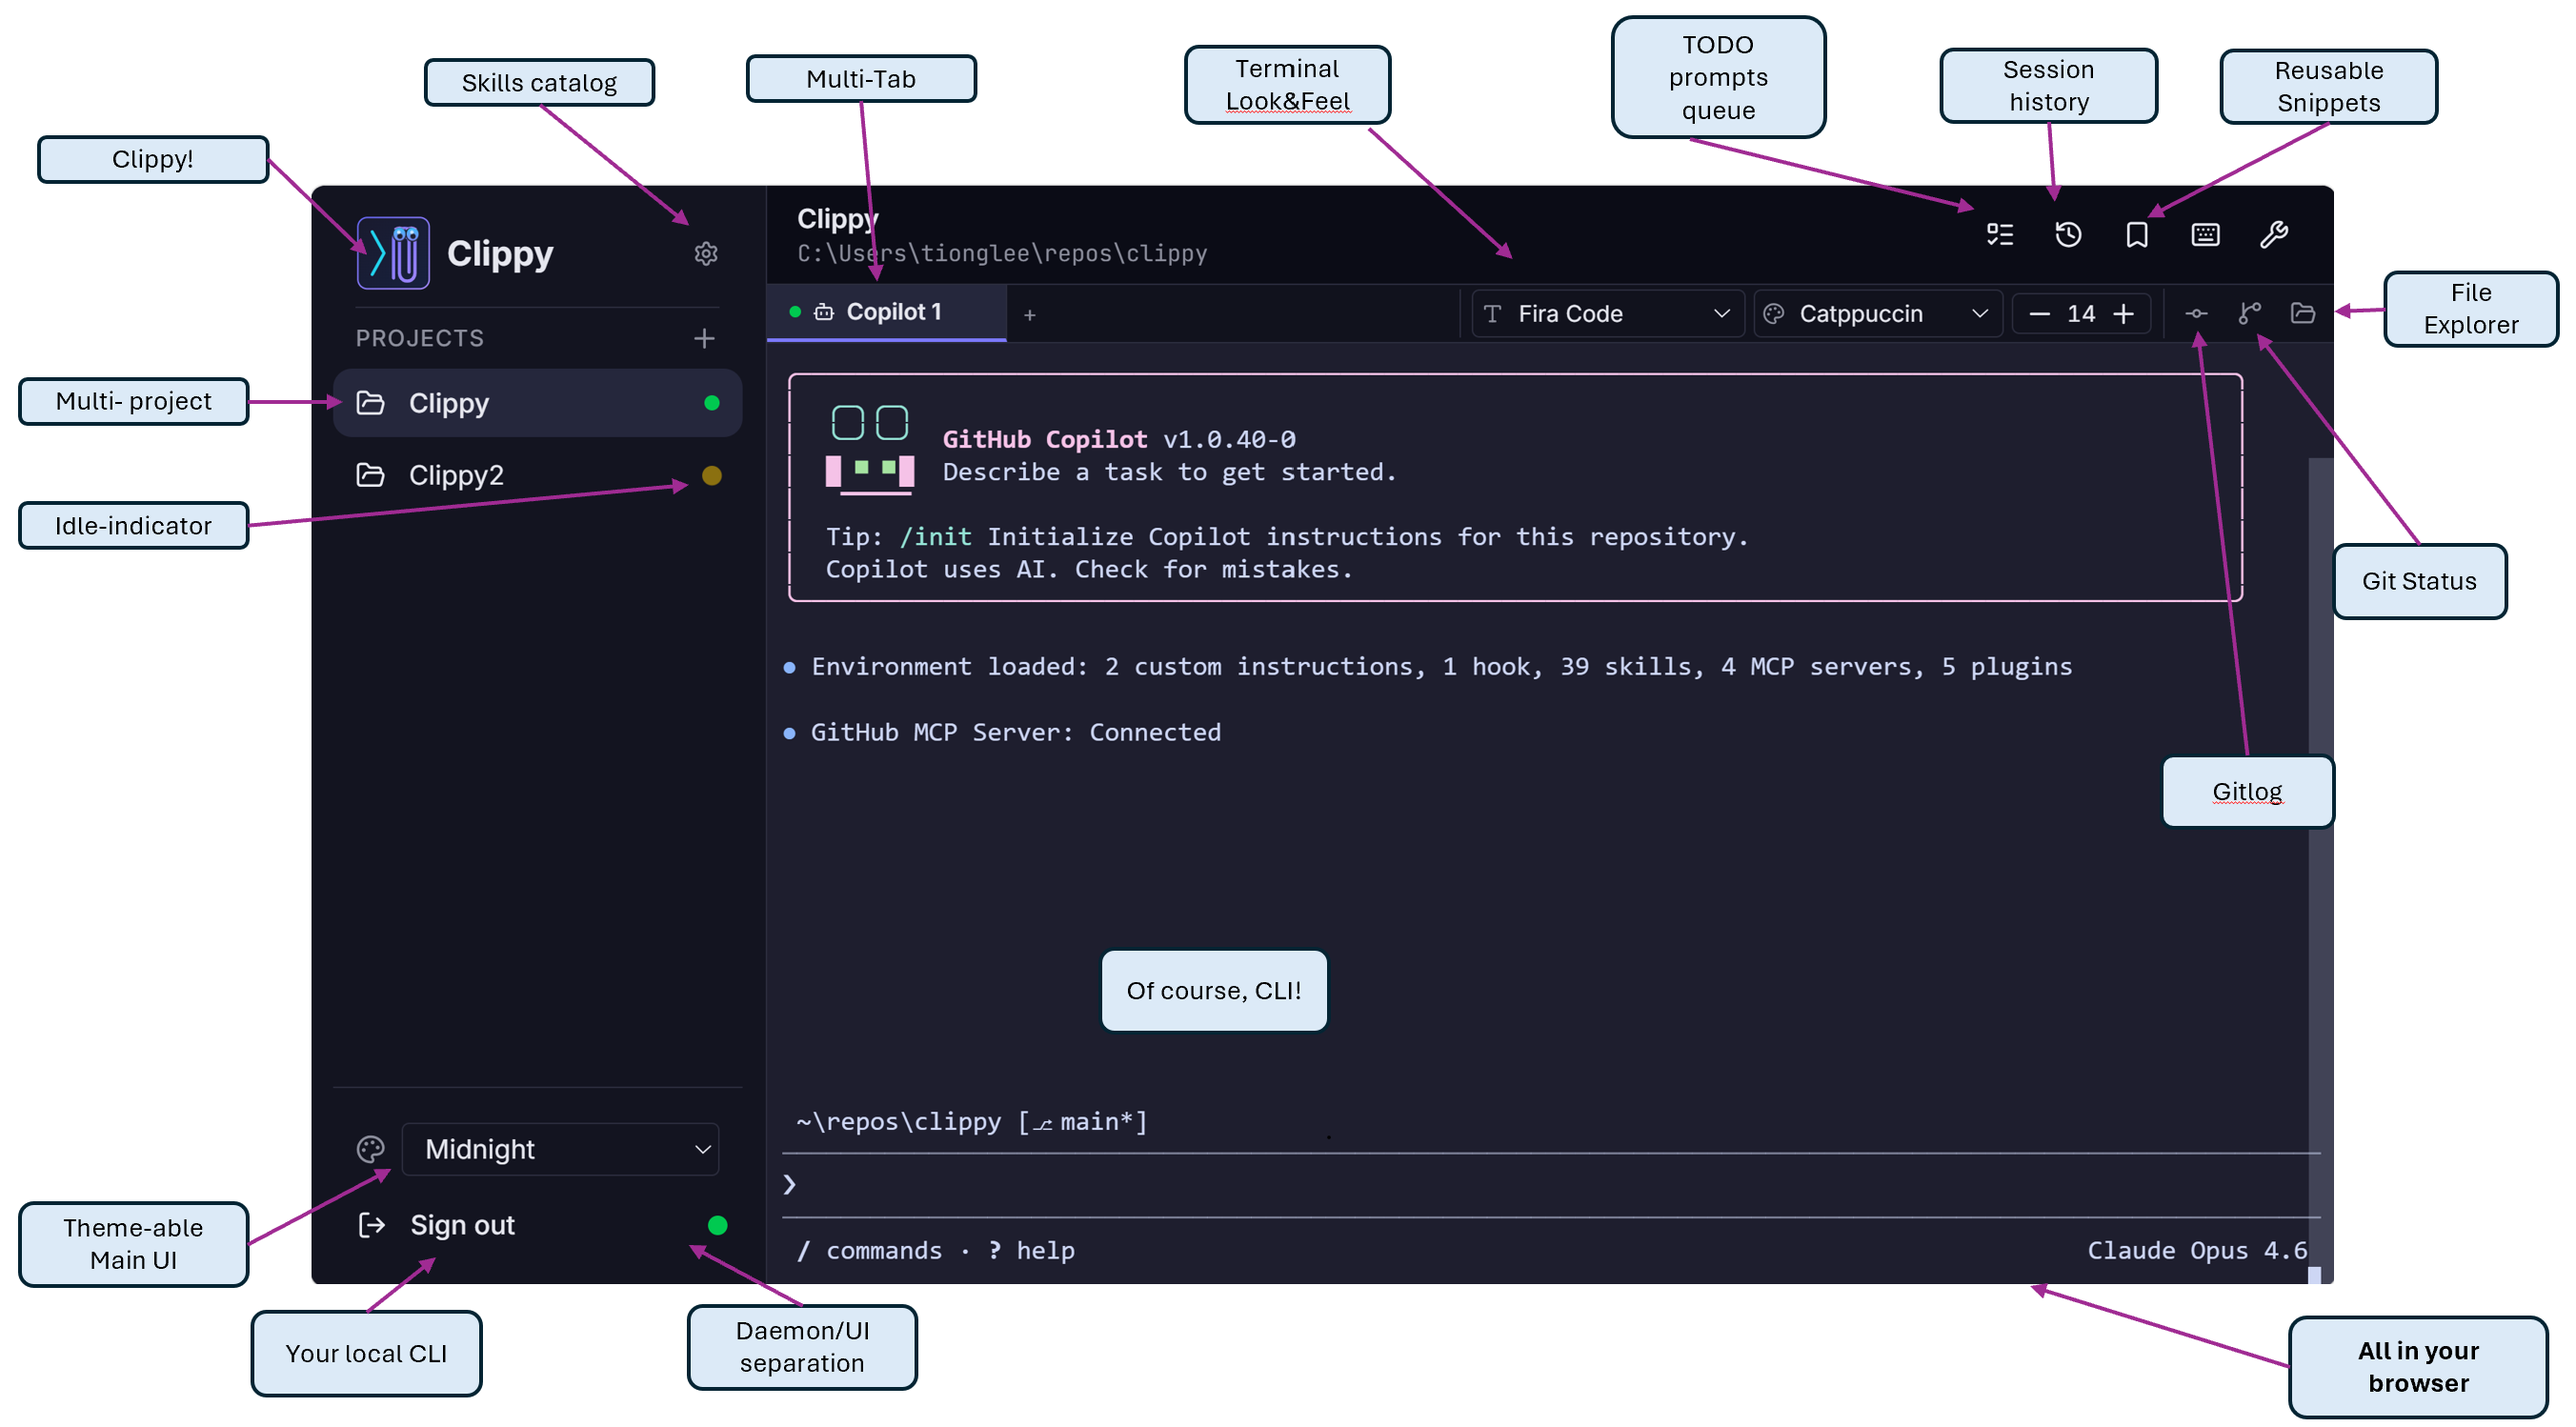
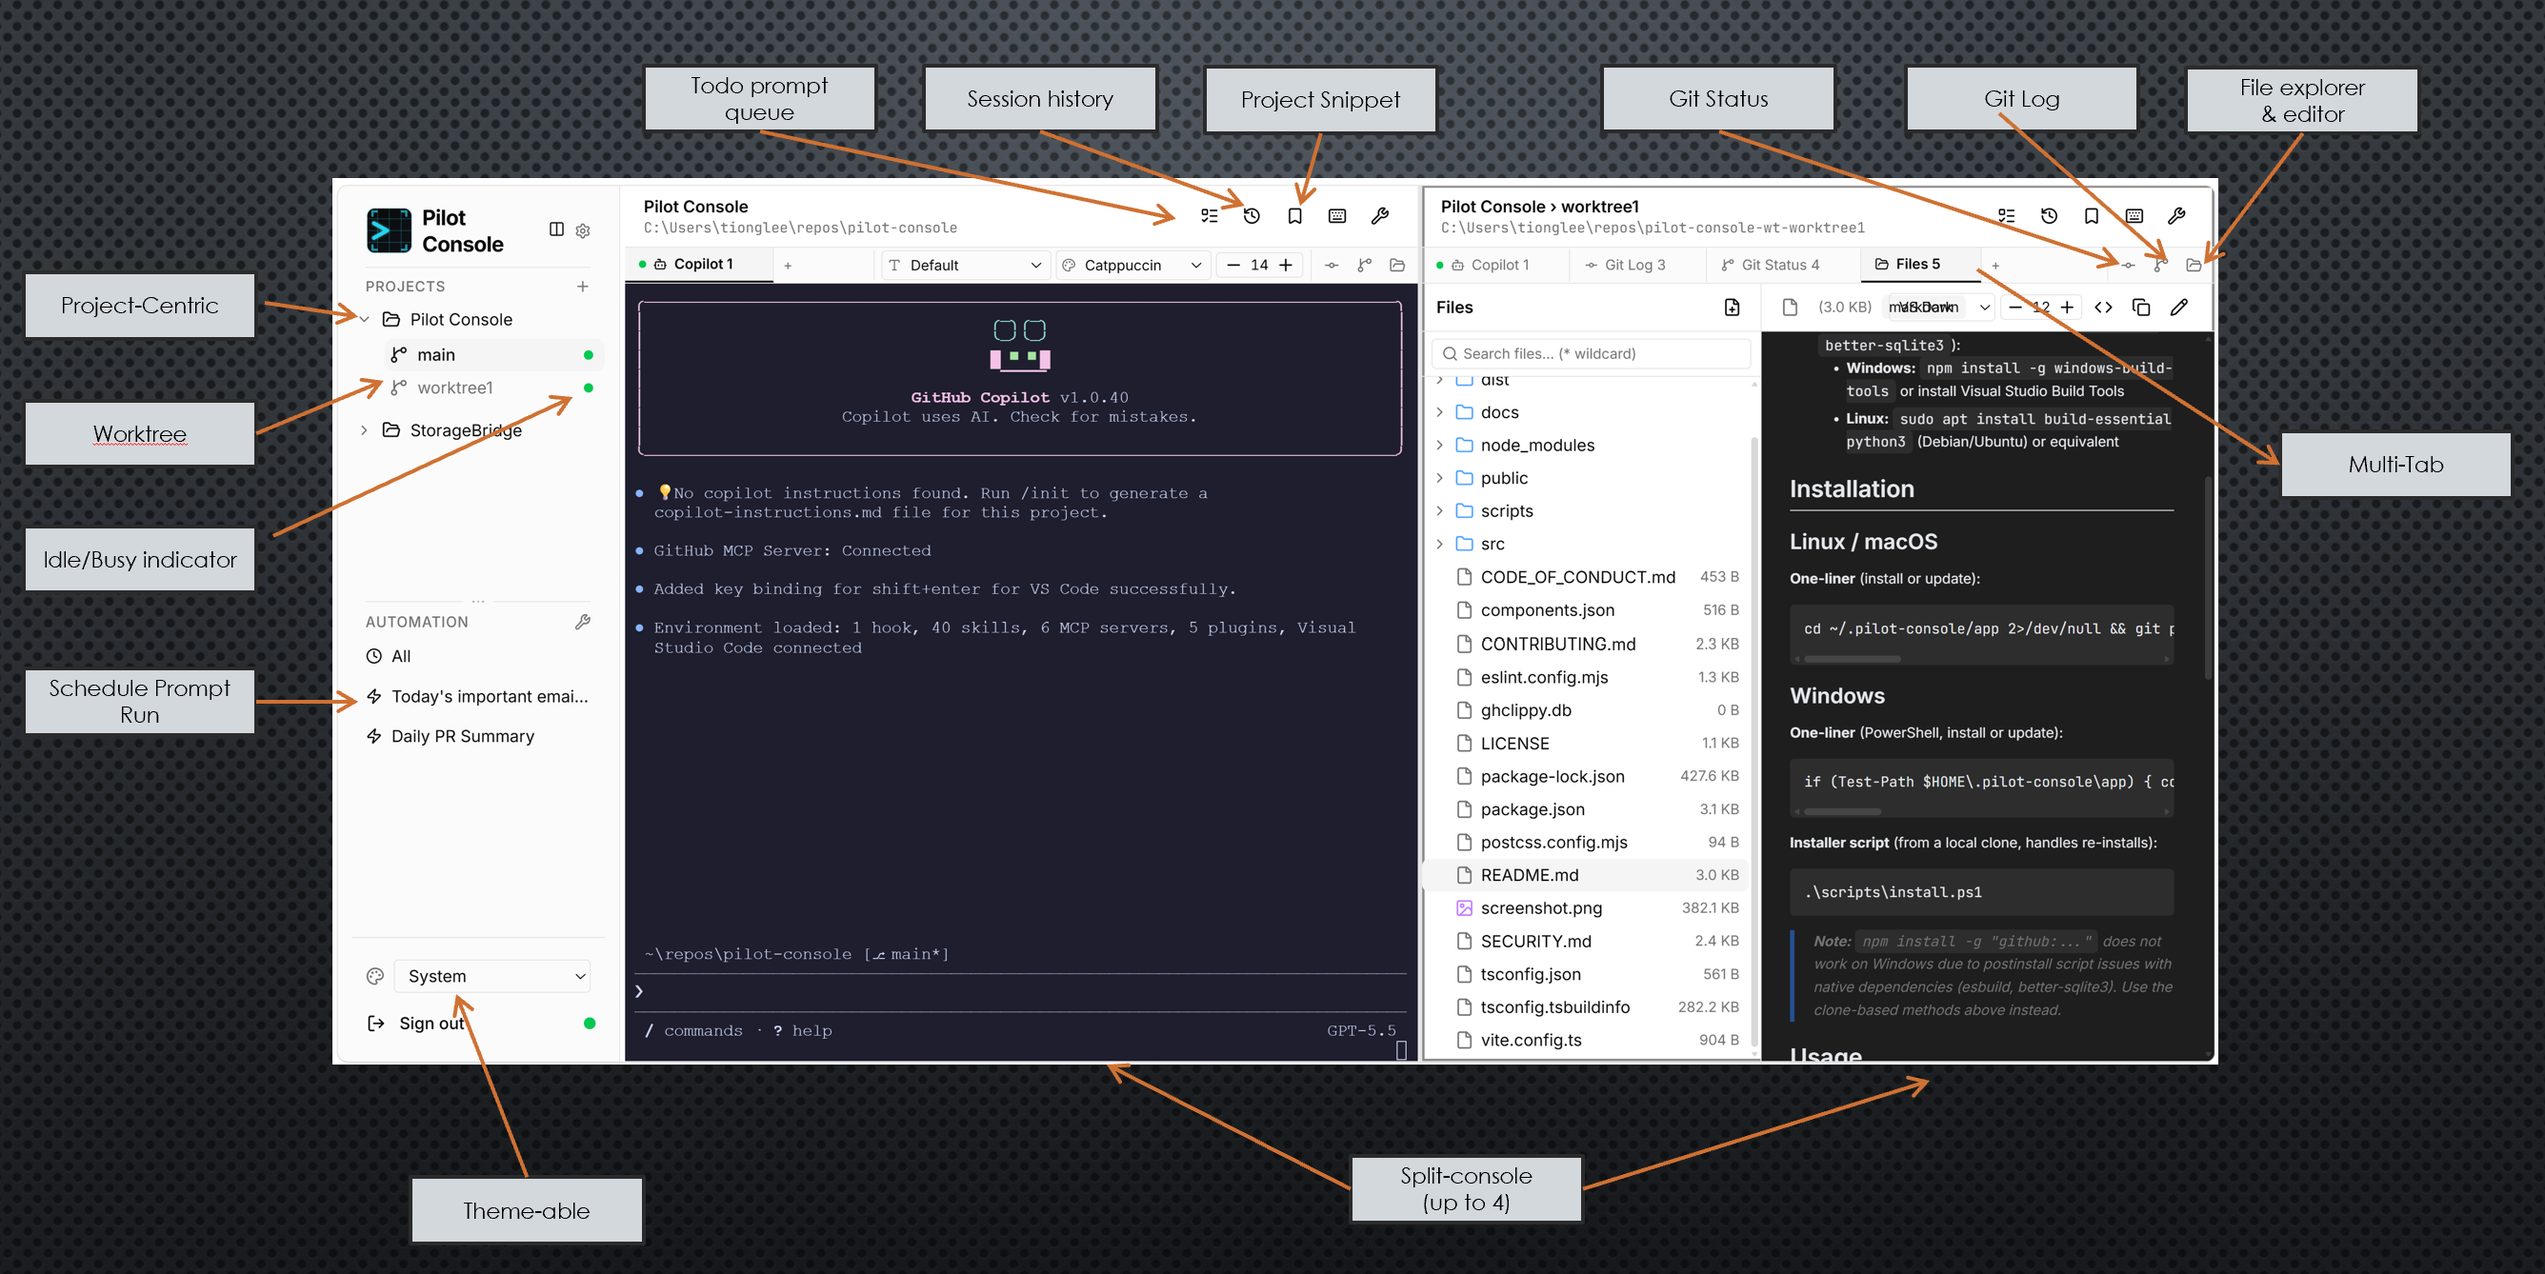
Update automation notifications

diff --git a/src/client/pages/SchedulesPage.tsx b/src/client/pages/SchedulesPage.tsx
@@ -8,6 +8,7 @@ import { Dialog, DialogContent, DialogHeader, DialogTitle } from '../components/
 import { Badge } from '../components/ui/badge';
 import { Plus, Play, Pencil, Trash2, Clock, Pause, History, ArrowLeft, Download, Upload, BookTemplate, Save, X } from 'lucide-react';
 import ScheduleInput from '../components/schedule/ScheduleInput';
+import { useAutomation } from '../lib/automation-context';
 
 interface Schedule {
   id: string;
@@ -70,6 +71,7 @@ export default function SchedulesPage() {
   const [importResult, setImportResult] = useState<{ name: string; status: string; error?: string }[] | null>(null);
   const [showImportResult, setShowImportResult] = useState(false);
   const fileInputRef = useRef<HTMLInputElement>(null);
+  const { refreshSchedules: refreshNavSchedules } = useAutomation();
 
   const fetchSchedules = useCallback(async () => {
     try {
@@ -213,7 +215,7 @@ export default function SchedulesPage() {
       const data = await res.json();
       if (!res.ok) throw new Error(data.error);
       setShowDialog(false);
-      fetchSchedules();
+      await Promise.all([fetchSchedules(), refreshNavSchedules()]);
     } catch (err) {
       setError((err as Error).message);
     } finally {
@@ -224,8 +226,9 @@ export default function SchedulesPage() {
   const handleDelete = async (id: string) => {
     if (!confirm('Delete this schedule and all its runs?')) return;
     try {
-      await fetch(`/api/admin/schedules/${id}`, { method: 'DELETE' });
-      fetchSchedules();
+      const res = await fetch(`/api/admin/schedules/${id}`, { method: 'DELETE' });
+      if (!res.ok) return;
+      await Promise.all([fetchSchedules(), refreshNavSchedules()]);
     } catch {}
   };
 
@@ -236,7 +239,7 @@ export default function SchedulesPage() {
         headers: { 'Content-Type': 'application/json' },
         body: JSON.stringify({ enabled: !s.enabled }),
       });
-      fetchSchedules();
+      await Promise.all([fetchSchedules(), refreshNavSchedules()]);
     } catch {}
   };
 
@@ -244,7 +247,7 @@ export default function SchedulesPage() {
     setTriggeringId(id);
     try {
       await fetch(`/api/admin/schedules/${id}/run`, { method: 'POST' });
-      fetchSchedules();
+      await fetchSchedules();
     } catch {}
     setTriggeringId(null);
   };
@@ -298,7 +301,7 @@ export default function SchedulesPage() {
       const result = await res.json();
       setImportResult(result.results || [{ name: '(unknown)', status: 'error', error: result.error }]);
       setShowImportResult(true);
-      fetchSchedules();
+      await Promise.all([fetchSchedules(), refreshNavSchedules()]);
     } catch (err) {
       setImportResult([{ name: '(file)', status: 'error', error: 'Failed to parse JSON file' }]);
       setShowImportResult(true);

diff --git a/src/server/routes/schedules.ts b/src/server/routes/schedules.ts
@@ -22,6 +22,7 @@ import { getAllTemplates, createTemplate, deleteTemplate } from '../../shared/au
 import { getRendererTypes } from '../renderers';
 import { getNextRunTime } from '../scheduler';
 import { executeReport, getRunningReportOutput, killRunningReport, getRunningReportForSchedule, getReportFilePath } from '../report-runner';
+import { broadcastScheduleChanged } from '../websocket';
 
 const router = Router();
 const REPORTS_DIR = path.join(require('os').homedir(), '.pilot-console', 'reports');
@@ -101,6 +102,7 @@ router.post('/schedules', (req, res) => {
       nextRunAt: nextRun,
     });
 
+    broadcastScheduleChanged({ action: 'created', scheduleId: schedule.id });
     res.status(201).json(schedule);
   } catch (err: any) {
     res.status(400).json({ error: err.message });
@@ -133,6 +135,7 @@ router.post('/schedules/import', (req, res) => {
     }
 
     const results: { name: string; status: 'created' | 'skipped' | 'error'; error?: string }[] = [];
+    let createdCount = 0;
 
     for (const s of imported) {
       if (!s.name?.trim() || !s.prompt?.trim() || !s.cronExpression?.trim()) {
@@ -159,12 +162,16 @@ router.post('/schedules/import', (req, res) => {
           nextRunAt: nextRun,
           enabled: s.enabled !== false,
         });
+        createdCount++;
         results.push({ name: s.name, status: 'created' });
       } catch (err: any) {
         results.push({ name: s.name, status: 'error', error: err.message });
       }
     }
 
+    if (createdCount > 0) {
+      broadcastScheduleChanged({ action: 'imported' });
+    }
     res.json({ results });
   } catch (err: any) {
     res.status(400).json({ error: err.message });
@@ -211,6 +218,7 @@ router.put('/schedules/:id', (req, res) => {
     }
 
     const schedule = updateSchedule(req.params.id, data);
+    broadcastScheduleChanged({ action: 'updated', scheduleId: schedule.id });
     res.json(schedule);
   } catch (err: any) {
     res.status(400).json({ error: err.message });
@@ -219,6 +227,7 @@ router.put('/schedules/:id', (req, res) => {
 
 router.delete('/schedules/:id', (req, res) => {
   deleteSchedule(req.params.id);
+  broadcastScheduleChanged({ action: 'deleted', scheduleId: req.params.id });
   res.json({ ok: true });
 });
 

diff --git a/src/client/lib/automation-context.tsx b/src/client/lib/automation-context.tsx
@@ -1,24 +1,57 @@
-import { createContext, useContext } from 'react';
+import { createContext, useCallback, useContext, useEffect, useState } from 'react';
 import { useAutomationBadge } from '../hooks/useAutomationBadge';
+
+interface AutomationNavSchedule {
+  id: string;
+  name: string;
+}
 
 interface AutomationContextValue {
   badgeCount: number;
+  schedules: AutomationNavSchedule[];
   refreshBadge: () => Promise<void>;
+  refreshSchedules: () => Promise<void>;
   markSeen: (latestCompletedAt?: string) => void;
   incrementBadge: () => void;
 }
 
 const AutomationContext = createContext<AutomationContextValue>({
   badgeCount: 0,
+  schedules: [],
   refreshBadge: async () => {},
+  refreshSchedules: async () => {},
   markSeen: () => {},
   incrementBadge: () => {},
 });
 
 export function AutomationProvider({ children }: { children: React.ReactNode }) {
   const { count, refresh, markSeen, increment } = useAutomationBadge();
+  const [schedules, setSchedules] = useState<AutomationNavSchedule[]>([]);
+
+  const refreshSchedules = useCallback(async () => {
+    try {
+      const res = await fetch('/api/admin/schedules');
+      if (!res.ok) return;
+      const data = await res.json();
+      setSchedules((data.schedules || []).map((s: AutomationNavSchedule) => ({ id: s.id, name: s.name })));
+    } catch {}
+  }, []);
+
+  useEffect(() => {
+    refreshSchedules();
+  }, [refreshSchedules]);
+
   return (
-    <AutomationContext.Provider value={{ badgeCount: count, refreshBadge: refresh, markSeen, incrementBadge: increment }}>
+    <AutomationContext.Provider
+      value={{
+        badgeCount: count,
+        schedules,
+        refreshBadge: refresh,
+        refreshSchedules,
+        markSeen,
+        incrementBadge: increment,
+      }}
+    >
       {children}
     </AutomationContext.Provider>
   );

diff --git a/src/client/hooks/useReportNotifications.ts b/src/client/hooks/useReportNotifications.ts
@@ -3,13 +3,17 @@ import { useAuth } from '../lib/auth-context';
 import { useAutomation } from '../lib/automation-context';
 import { toast } from 'sonner';
 
+export interface ScheduleChangedDetail {
+  action: 'created' | 'updated' | 'deleted' | 'imported';
+  scheduleId?: string;
+}
+
 /**
- * Hook that listens for report-ready WebSocket notifications
- * and displays a toast. Also increments the automation badge count.
+ * Hook that listens for automation WebSocket notifications.
  */
 export function useReportNotifications() {
   const { user } = useAuth();
-  const { incrementBadge } = useAutomation();
+  const { incrementBadge, refreshSchedules } = useAutomation();
 
   useEffect(() => {
     if (!user) return;
@@ -38,6 +42,11 @@ export function useReportNotifications() {
               } : undefined,
               duration: 10000,
             });
+          } else if (msg.type === 'schedule-changed') {
+            refreshSchedules();
+            window.dispatchEvent(new CustomEvent<ScheduleChangedDetail>('schedule-changed', {
+              detail: { action: msg.action, scheduleId: msg.scheduleId },
+            }));
           }
         } catch {}
       };
@@ -57,5 +66,5 @@ export function useReportNotifications() {
       if (reconnectTimer) clearTimeout(reconnectTimer);
       ws?.close();
     };
-  }, [user, incrementBadge]);
+  }, [user, incrementBadge, refreshSchedules]);
 }

diff --git a/src/client/pages/AutomationHistoryPage.tsx b/src/client/pages/AutomationHistoryPage.tsx
@@ -18,6 +18,7 @@ import { Input } from '../components/ui/input';
 import { Label } from '../components/ui/label';
 import { Textarea } from '../components/ui/textarea';
 import ScheduleInput from '../components/schedule/ScheduleInput';
+import type { ScheduleChangedDetail } from '../hooks/useReportNotifications';
 
 const PAGE_SIZE = 50;
 
@@ -347,6 +348,20 @@ export function AutomationHistoryCore({ scheduleFilter, onNavigate }: { schedule
   useEffect(() => {
     fetchRuns();
   }, [fetchRuns]);
+
+  useEffect(() => {
+    if (!scheduleFilter) return;
+
+    const handleScheduleChanged = (event: Event) => {
+      const { action, scheduleId } = (event as CustomEvent<ScheduleChangedDetail>).detail;
+      if (action === 'deleted' && scheduleId === scheduleFilter) {
+        onNavigate?.('/automation');
+      }
+    };
+
+    window.addEventListener('schedule-changed', handleScheduleChanged);
+    return () => window.removeEventListener('schedule-changed', handleScheduleChanged);
+  }, [onNavigate, scheduleFilter]);
 
   // Reset page when schedule filter changes
   useEffect(() => {

diff --git a/src/server/websocket.ts b/src/server/websocket.ts
@@ -33,6 +33,21 @@ export function broadcastReportReady(payload: {
   });
 }
 
+/** Broadcast schedule list changes so clients can refresh automation navigation */
+export function broadcastScheduleChanged(payload: {
+  action: 'created' | 'updated' | 'deleted' | 'imported';
+  scheduleId?: string;
+}): void {
+  if (!_wss) return;
+  const msg = JSON.stringify({ type: 'schedule-changed', ...payload });
+  _wss.clients.forEach((ws) => {
+    const socket = ws as AuthedSocket;
+    if (socket.readyState === WebSocket.OPEN && socket.userId) {
+      socket.send(msg);
+    }
+  });
+}
+
 export function setupWebSocketServer(): WebSocketServer {
   const wss = new WebSocketServer({ noServer: true });
   _wss = wss;

diff --git a/src/shared/types.ts b/src/shared/types.ts
@@ -60,7 +60,8 @@ export type WsServerMessage =
   | { type: 'exit'; code: number }
   | { type: 'ready'; sessionId: string }
   | { type: 'pong' }
-  | { type: 'report-ready'; runId: string; scheduleId: string; scheduleName: string; status: string };
+  | { type: 'report-ready'; runId: string; scheduleId: string; scheduleName: string; status: string }
+  | { type: 'schedule-changed'; action: 'created' | 'updated' | 'deleted' | 'imported'; scheduleId?: string };
 
 export interface Worktree {
   id: string;
